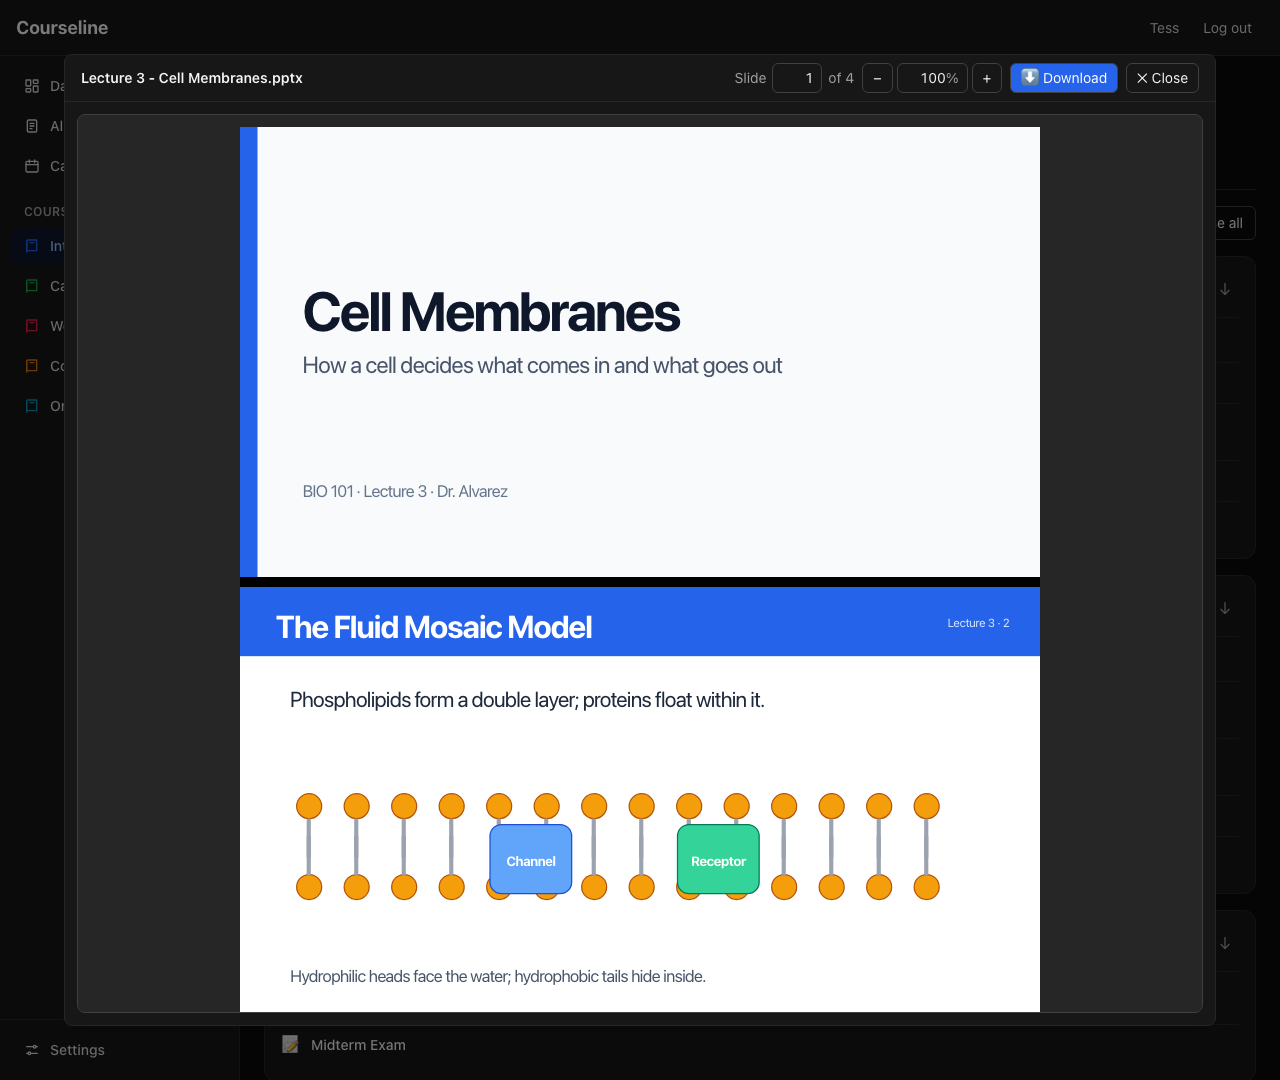
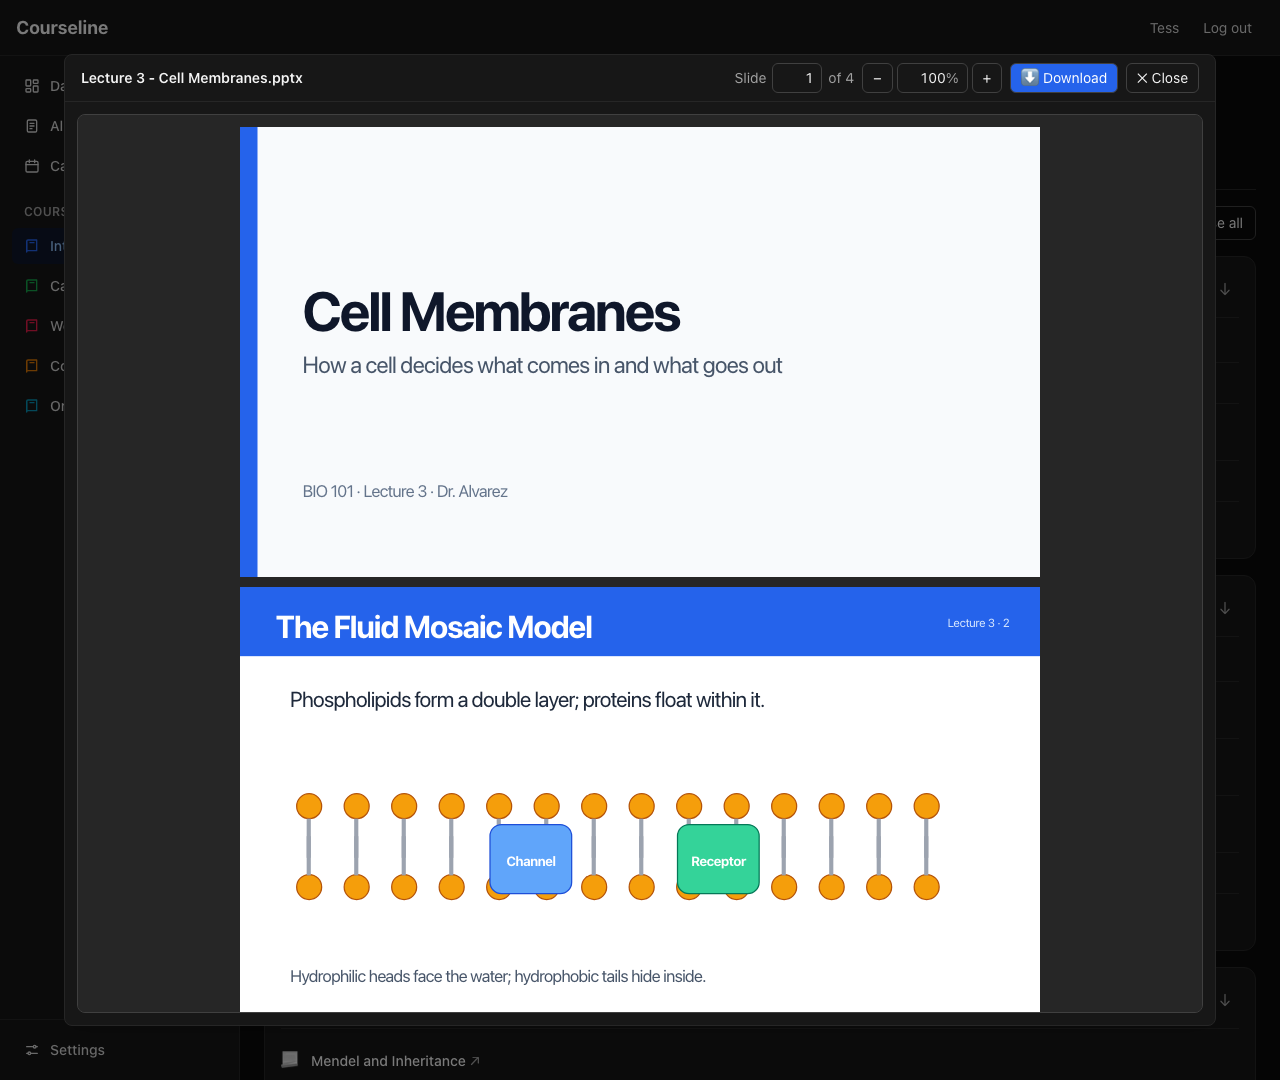
PowerPoint preview: apply the master's body text style (bullets, sizes), top-anchor body text, neutral gaps between slides

Changed region(s): [[0.1875, 0.5194, 0.8125, 0.55], [0.2188, 0.9472, 0.375, 1.0]]

diff --git a/src/lib/pptxFix.ts b/src/lib/pptxFix.ts
@@ -1,0 +1,101 @@
+// Works around a gap in pptx-preview: it applies a master's title style to titles, but never reads
+// the master's body style (<p:txStyles><p:bodyStyle>), which is where PowerPoint keeps the bullets
+// and font sizes of body text. Without it, bullet lists lose their bullets and shrink to the default
+// size. The library does read a placeholder's own <a:lstStyle>, so before previewing we copy the body
+// style into every empty body-like placeholder on the masters and layouts: the same inheritance
+// PowerPoint applies. Anything that already has its own list style is left alone.
+
+const DRAWING_NS = 'http://schemas.openxmlformats.org/drawingml/2006/main';
+
+const children = (el: Element, name: string) => Array.from(el.children).filter((c) => c.localName === name);
+const descendants = (root: Document | Element, name: string) => Array.from(root.getElementsByTagNameNS('*', name));
+
+/** Placeholders that hold body text: no type (PowerPoint's default is the body), "body" or "obj". Not titles, dates, footers, pictures… */
+function bodyPlaceholders(doc: Document): Element[] {
+  return descendants(doc, 'ph')
+    .filter((ph) => {
+      const type = ph.getAttribute('type');
+      return !type || type === 'body' || type === 'obj';
+    })
+    .map((ph) => {
+      let el: Element | null = ph;
+      while (el && el.localName !== 'sp') el = el.parentElement;
+      return el;
+    })
+    .filter((sp): sp is Element => sp !== null);
+}
+
+/** PowerPoint puts body text at the top of its box unless told otherwise; pptx-preview centers it when no anchor is written. */
+function anchorTop(txBody: Element): boolean {
+  const bodyPr = children(txBody, 'bodyPr')[0];
+  if (!bodyPr || bodyPr.hasAttribute('anchor')) return false;
+  bodyPr.setAttribute('anchor', 't');
+  return true;
+}
+
+function fillEmptyListStyle(sp: Element, levels: Element[]): boolean {
+  const txBody = children(sp, 'txBody')[0];
+  if (!txBody) return false;
+  const anchored = anchorTop(txBody);
+  let lst = children(txBody, 'lstStyle')[0];
+  if (lst && lst.children.length > 0) return anchored; // it has its own style
+  if (!lst) {
+    lst = txBody.ownerDocument.createElementNS(DRAWING_NS, 'a:lstStyle');
+    const bodyPr = children(txBody, 'bodyPr')[0];
+    if (bodyPr?.nextSibling) txBody.insertBefore(lst, bodyPr.nextSibling);
+    else txBody.appendChild(lst);
+  }
+  for (const level of levels) lst.appendChild(txBody.ownerDocument.importNode(level, true));
+  return true;
+}
+
+const parse = (xml: string) => new DOMParser().parseFromString(xml, 'application/xml');
+const hasError = (doc: Document) => doc.getElementsByTagName('parsererror').length > 0;
+
+/** Returns the file with body styles applied (the same bytes when there was nothing to do or it could not be read). */
+export async function applyMasterBodyStyles(bytes: ArrayBuffer): Promise<ArrayBuffer> {
+  try {
+    const { default: JSZip } = await import('jszip');
+    const zip = await JSZip.loadAsync(bytes);
+    const names = Object.keys(zip.files);
+    const serializer = new XMLSerializer();
+    let changed = false;
+
+    // master path → its body style levels (lvl1pPr … lvl9pPr)
+    const bodyStyles = new Map<string, Element[]>();
+    for (const name of names.filter((n) => /^ppt\/slideMasters\/slideMaster\d+\.xml$/.test(n))) {
+      const doc = parse(await zip.file(name)!.async('string'));
+      if (hasError(doc)) continue;
+      const style = descendants(doc, 'bodyStyle')[0];
+      const levels = style ? Array.from(style.children).filter((c) => /^lvl\dpPr$/.test(c.localName)) : [];
+      if (levels.length === 0) continue;
+      bodyStyles.set(name, levels);
+      const edited = bodyPlaceholders(doc).filter((sp) => fillEmptyListStyle(sp, levels)).length > 0;
+      if (edited) {
+        zip.file(name, serializer.serializeToString(doc));
+        changed = true;
+      }
+    }
+
+    // Layouts: which master each belongs to is in its relationships file.
+    for (const name of names.filter((n) => /^ppt\/slideLayouts\/slideLayout\d+\.xml$/.test(n))) {
+      const relsFile = zip.file(name.replace('slideLayouts/', 'slideLayouts/_rels/') + '.rels');
+      if (!relsFile) continue;
+      const rel = descendants(parse(await relsFile.async('string')), 'Relationship').find((r) => (r.getAttribute('Type') ?? '').endsWith('/slideMaster'));
+      const master = rel ? `ppt/slideMasters/${(rel.getAttribute('Target') ?? '').split('/').pop()}` : '';
+      const levels = bodyStyles.get(master);
+      if (!levels) continue;
+      const doc = parse(await zip.file(name)!.async('string'));
+      if (hasError(doc)) continue;
+      if (bodyPlaceholders(doc).filter((sp) => fillEmptyListStyle(sp, levels)).length > 0) {
+        zip.file(name, serializer.serializeToString(doc));
+        changed = true;
+      }
+    }
+
+    return changed ? zip.generateAsync({ type: 'arraybuffer', compression: 'DEFLATE' }) : bytes;
+  } catch (err) {
+    console.warn('[file viewer] could not apply the PowerPoint body styles', err);
+    return bytes;
+  }
+}

diff --git a/src/lib/pptxFix.test.ts b/src/lib/pptxFix.test.ts
@@ -1,0 +1,70 @@
+import JSZip from 'jszip';
+import { describe, expect, it } from 'vitest';
+import { applyMasterBodyStyles } from './pptxFix';
+
+const NS = 'xmlns:a="http://schemas.openxmlformats.org/drawingml/2006/main" xmlns:r="http://schemas.openxmlformats.org/officeDocument/2006/relationships" xmlns:p="http://schemas.openxmlformats.org/presentationml/2006/main"';
+const placeholder = (id: number, ph: string, bodyPr: string, lst: string) =>
+  `<p:sp><p:nvSpPr><p:cNvPr id="${id}" name="s${id}"/><p:cNvSpPr/><p:nvPr><p:ph ${ph}/></p:nvPr></p:nvSpPr><p:spPr/><p:txBody>${bodyPr}${lst}<a:p><a:endParaRPr lang="en-US"/></a:p></p:txBody></p:sp>`;
+const bodyStyle = '<a:lvl1pPr marL="342900" indent="-342900"><a:buChar char="•"/><a:defRPr sz="2800"/></a:lvl1pPr><a:lvl2pPr marL="742950"><a:buChar char="–"/><a:defRPr sz="2400"/></a:lvl2pPr>';
+const master = (shapes: string) => `<?xml version="1.0"?><p:sldMaster ${NS}><p:cSld><p:spTree>${shapes}</p:spTree></p:cSld><p:txStyles><p:titleStyle><a:lvl1pPr><a:defRPr sz="4400"/></a:lvl1pPr></p:titleStyle><p:bodyStyle>${bodyStyle}</p:bodyStyle></p:txStyles></p:sldMaster>`;
+const layout = (shapes: string) => `<?xml version="1.0"?><p:sldLayout ${NS}><p:cSld><p:spTree>${shapes}</p:spTree></p:cSld></p:sldLayout>`;
+const layoutRels = '<Relationships xmlns="http://schemas.openxmlformats.org/package/2006/relationships"><Relationship Id="rId1" Type="http://schemas.openxmlformats.org/officeDocument/2006/relationships/slideMaster" Target="../slideMasters/slideMaster1.xml"/></Relationships>';
+
+async function build(files: Record<string, string>) {
+  const zip = new JSZip();
+  for (const [path, content] of Object.entries(files)) zip.file(path, content);
+  return zip.generateAsync({ type: 'arraybuffer' });
+}
+const read = async (bytes: ArrayBuffer, path: string) => new DOMParser().parseFromString(await (await JSZip.loadAsync(bytes)).file(path)!.async('string'), 'application/xml');
+const lstStyleOf = (doc: Document, ph: string) => {
+  const sp = Array.from(doc.getElementsByTagNameNS('*', 'sp')).find((s) => s.getElementsByTagNameNS('*', 'ph')[0]?.outerHTML.includes(ph))!;
+  return Array.from(sp.getElementsByTagNameNS('*', 'lstStyle')[0]?.children ?? []).map((c) => c.localName);
+};
+
+describe('applyMasterBodyStyles', () => {
+  const files = {
+    'ppt/slideMasters/slideMaster1.xml': master(
+      placeholder(2, 'type="title"', '<a:bodyPr anchor="ctr"/>', '<a:lstStyle/>') + placeholder(3, 'type="body" idx="1"', '<a:bodyPr/>', '<a:lstStyle/>'),
+    ),
+    'ppt/slideLayouts/slideLayout1.xml': layout(
+      placeholder(2, 'type="title"', '<a:bodyPr/>', '<a:lstStyle/>') +
+        placeholder(3, 'idx="1"', '<a:bodyPr/>', '<a:lstStyle/>') + // PowerPoint writes a body placeholder with no type
+        placeholder(4, 'idx="2"', '<a:bodyPr/>', '<a:lstStyle><a:lvl1pPr><a:defRPr sz="1000"/></a:lvl1pPr></a:lstStyle>'), // has its own style
+    ),
+    'ppt/slideLayouts/_rels/slideLayout1.xml.rels': layoutRels,
+  };
+
+  it('copies the master body style into empty body placeholders on the master and the layouts', async () => {
+    const out = await applyMasterBodyStyles(await build(files));
+    const m = await read(out, 'ppt/slideMasters/slideMaster1.xml');
+    expect(lstStyleOf(m, 'type="body"')).toEqual(['lvl1pPr', 'lvl2pPr']);
+    const l = await read(out, 'ppt/slideLayouts/slideLayout1.xml');
+    expect(lstStyleOf(l, 'idx="1"')).toEqual(['lvl1pPr', 'lvl2pPr']);
+    // the bullets and sizes came along
+    expect(l.getElementsByTagNameNS('*', 'buChar')[0].getAttribute('char')).toBe('•');
+    expect(l.getElementsByTagNameNS('*', 'defRPr')[0].getAttribute('sz')).toBe('2800');
+  });
+
+  it('leaves titles and placeholders that have their own style alone', async () => {
+    const out = await applyMasterBodyStyles(await build(files));
+    const l = await read(out, 'ppt/slideLayouts/slideLayout1.xml');
+    expect(lstStyleOf(l, 'type="title"')).toEqual([]);
+    expect(lstStyleOf(l, 'idx="2"')).toEqual(['lvl1pPr']);
+    expect(l.getElementsByTagNameNS('*', 'defRPr').length).toBe(3); // 2 copied levels + the layout's own
+  });
+
+  it('puts body text at the top of its box unless an anchor is set', async () => {
+    const out = await applyMasterBodyStyles(await build(files));
+    const m = await read(out, 'ppt/slideMasters/slideMaster1.xml');
+    const bodyPrs = Array.from(m.getElementsByTagNameNS('*', 'bodyPr'));
+    expect(bodyPrs[0].getAttribute('anchor')).toBe('ctr'); // title: untouched
+    expect(bodyPrs[1].getAttribute('anchor')).toBe('t');
+  });
+
+  it('returns the same bytes when there is nothing to do, and survives garbage', async () => {
+    const plain = await build({ 'ppt/presentation.xml': '<p:presentation/>' });
+    expect(await applyMasterBodyStyles(plain)).toBe(plain);
+    const garbage = new TextEncoder().encode('not a zip').buffer as ArrayBuffer;
+    expect(await applyMasterBodyStyles(garbage)).toBe(garbage);
+  });
+});

diff --git a/src/components/FileViewer.tsx b/src/components/FileViewer.tsx
@@ -4,6 +4,7 @@ import { CanvasApiError } from '../api/client';
 import { useApi } from '../context/AuthContext';
 import { ErrorMessage, Spinner } from './ui';
 import { t } from '../i18n';
+import { applyMasterBodyStyles } from '../lib/pptxFix';
 
 const Editor = lazy(() => import('@monaco-editor/react').then(m => ({ default: m.default })));
 
@@ -480,13 +481,14 @@ function PptxViewer({ fileUrl, zoom }: { fileUrl: string; zoom: number }) {
     const width = Math.max(320, Math.min(host.clientWidth || 800, 1100));
     const height = Math.round(width * (await slideAspect(bytes)));
     const previewer = init(host, { width, height, mode: 'list' });
-    await previewer.preview(bytes);
+    await previewer.preview(await applyMasterBodyStyles(bytes));
     // The library boxes all slides into a wrapper one slide tall that scrolls on its own. Let the
     // slides stack instead, so the viewer's single scroll area (and its page tracking) covers them all.
     const wrapper = host.querySelector<HTMLElement>('.pptx-preview-wrapper');
     if (wrapper) {
       wrapper.style.height = 'auto';
       wrapper.style.overflow = 'visible';
+      wrapper.style.background = 'transparent'; // the library paints the gaps between slides black
     }
     // For a chart whose file has no title, the slide library draws a Chinese placeholder ("chart title").
     // PowerPoint shows nothing there, so blank it (charts render a moment later, hence the observer).

diff --git a/DEVELOPER_GUIDE.md b/DEVELOPER_GUIDE.md
@@ -254,6 +254,7 @@ Everything lives in `src/` (about 5,200 lines of app code plus tests). Config fi
 |---|---|
 | `grades.ts` | The grade maths (group weights, drop rules, what-if, trend, goal solver). Fully unit-testable. |
 | `accent.ts` | Accent presets and the function that turns one hex color into a full 11-step palette. |
+| `pptxFix.ts` | `applyMasterBodyStyles()`: before a PowerPoint file is previewed, copies the master's body text style (bullets, sizes) into empty body placeholders and top-anchors them, because pptx-preview never reads `<p:bodyStyle>` (it only does titles). Returns the original bytes if there is nothing to do or the file can't be read. |
 | `htmlToMarkdown.ts` | Canvas HTML → Markdown (headings, lists, tables, links, equations as LaTeX, image descriptions). |
 | `extractText.ts` | Text out of downloaded files: plain/code/HTML, PDF (pdf.js), Word and PowerPoint (zip + XML, including speaker notes), spreadsheets. Returns null when there is none. |
 | `courseExport.ts` | Pure: turns the gathered course data into the export's documents (README, ALL_TEXT, syllabus, units, pages, assignments, file text, manifest) and rewrites Canvas links to the local copies. |
@@ -314,6 +315,7 @@ Everything lives in `src/` (about 5,200 lines of app code plus tests). Config fi
 | `context/CourseStyleContext.test.tsx` | Per-course color/icon: save, merge, reset, ignore invalid saved values. |
 | `lib/courseColor.test.ts` | Colors are unique at any count, order-independent, and stable when a course is added. |
 | `lib/assignmentState.test.ts` | The one color scheme for assignments (red missing / pastel blue to do / pastel green handed in), which finished work fades, and that the list badges use it. |
+| `lib/pptxFix.test.ts` | Body style copied onto masters and layouts, titles and placeholders with their own style untouched, top anchoring, same bytes back when nothing to do or on garbage. |
 | `lib/htmlToMarkdown.test.ts`, `lib/extractText.test.ts`, `lib/courseExport.test.ts`, `lib/courseExportRunner.test.ts` | The AI export: Markdown conversion, text from Word/PowerPoint/plain files, the document set and link rewriting, scanning, packing, size limits, failures and cancelling (with a fake Canvas API). |
 | `lib/calendar.test.ts` | Month grid (week start, whole weeks, year rollover) and local date keys. |
 | `i18n/i18n.test.ts` | `t()` in both languages, placeholders, saved-language detection, and that every Spanish string keeps the English `{placeholders}`. |
